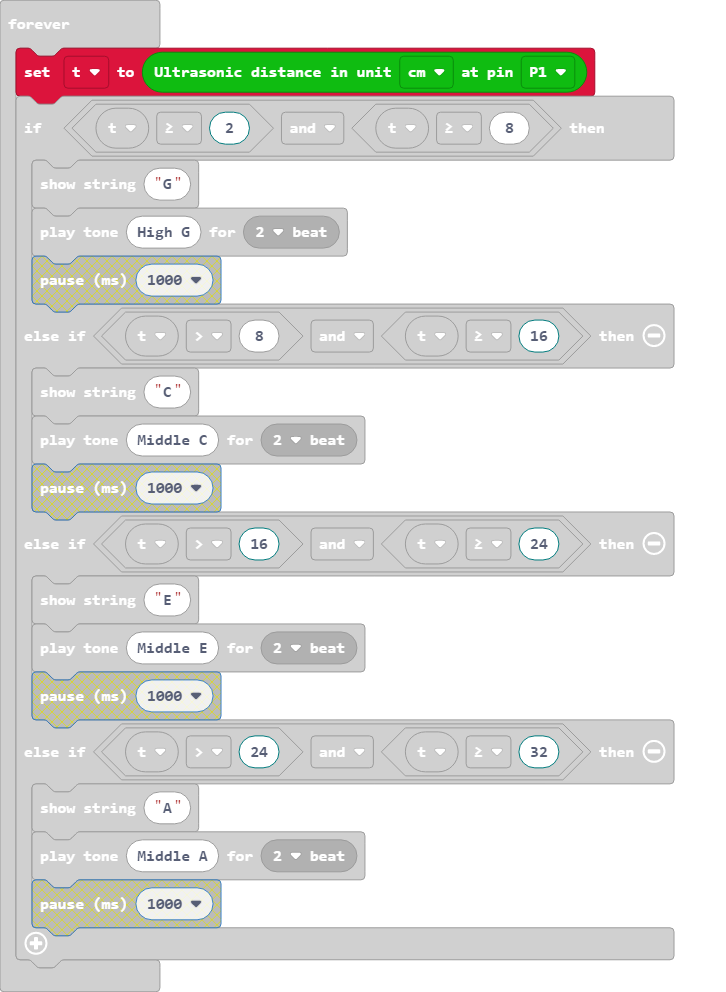
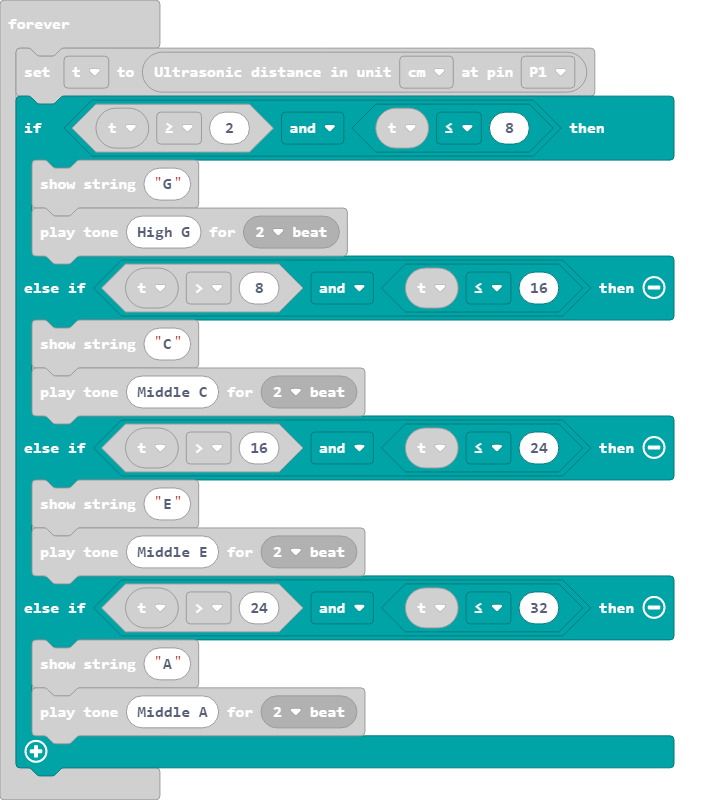
debug

diff --git a/main.ts b/main.ts
@@ -2,16 +2,16 @@ let t = 0
 basic.showIcon(IconNames.EigthNote)
 basic.forever(function () {
     t = sonarbit.sonarbit_distance(Distance_Unit.Distance_Unit_cm, DigitalPin.P1)
-    if (t >= 2 && t >= 8) {
+    if (t >= 2 && t <= 8) {
         basic.showString("G")
         music.playTone(784, music.beat(BeatFraction.Double))
-    } else if (t > 8 && t >= 16) {
+    } else if (t > 8 && t <= 16) {
         basic.showString("C")
         music.playTone(262, music.beat(BeatFraction.Double))
-    } else if (t > 16 && t >= 24) {
+    } else if (t > 16 && t <= 24) {
         basic.showString("E")
         music.playTone(330, music.beat(BeatFraction.Double))
-    } else if (t > 24 && t >= 32) {
+    } else if (t > 24 && t <= 32) {
         basic.showString("A")
         music.playTone(440, music.beat(BeatFraction.Double))
     }
